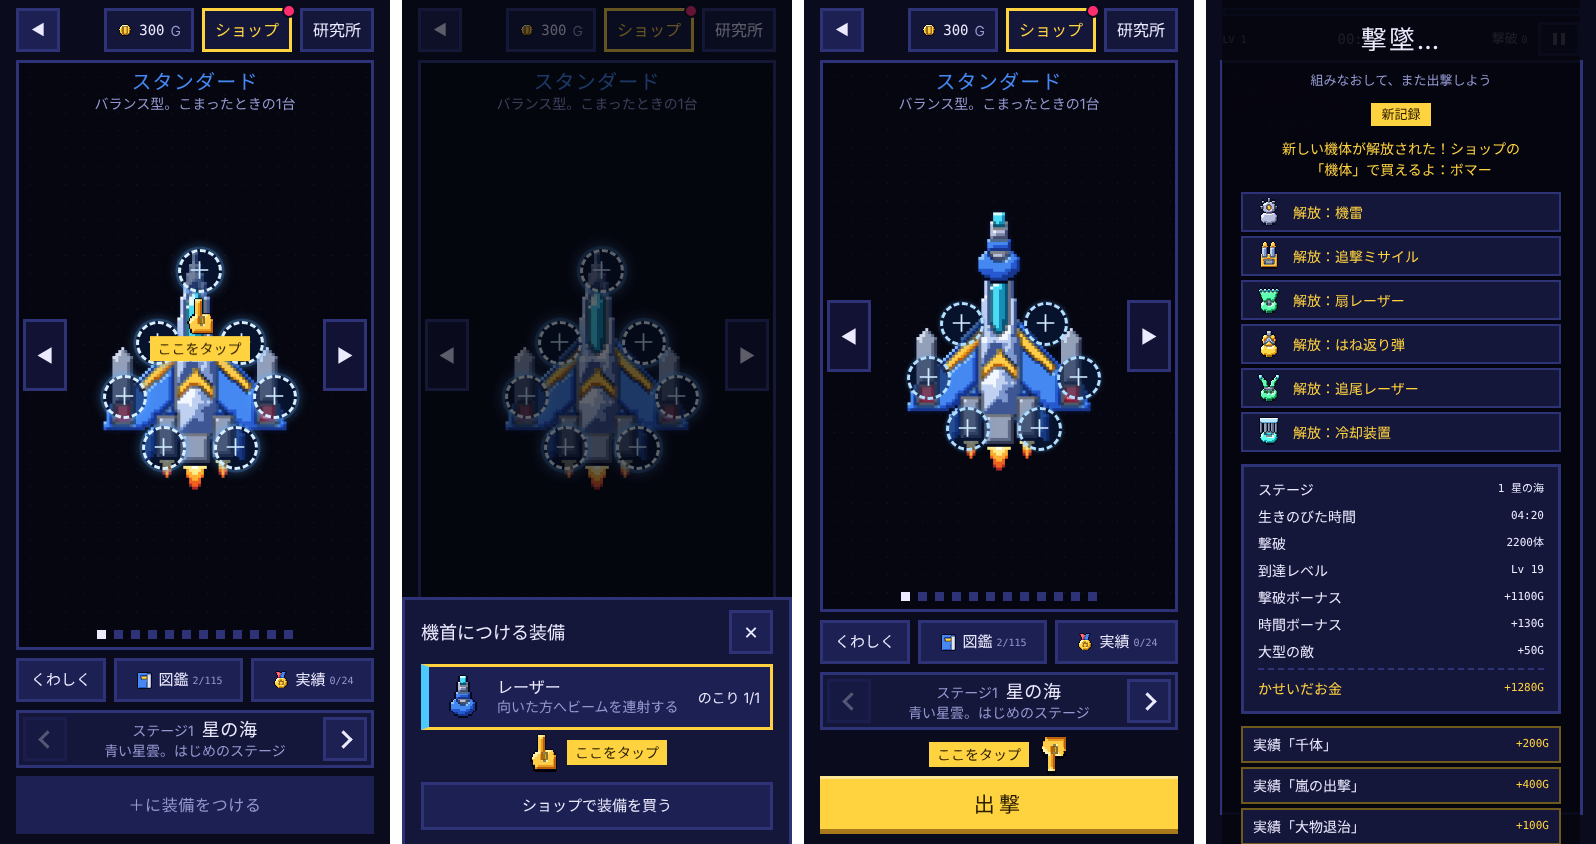
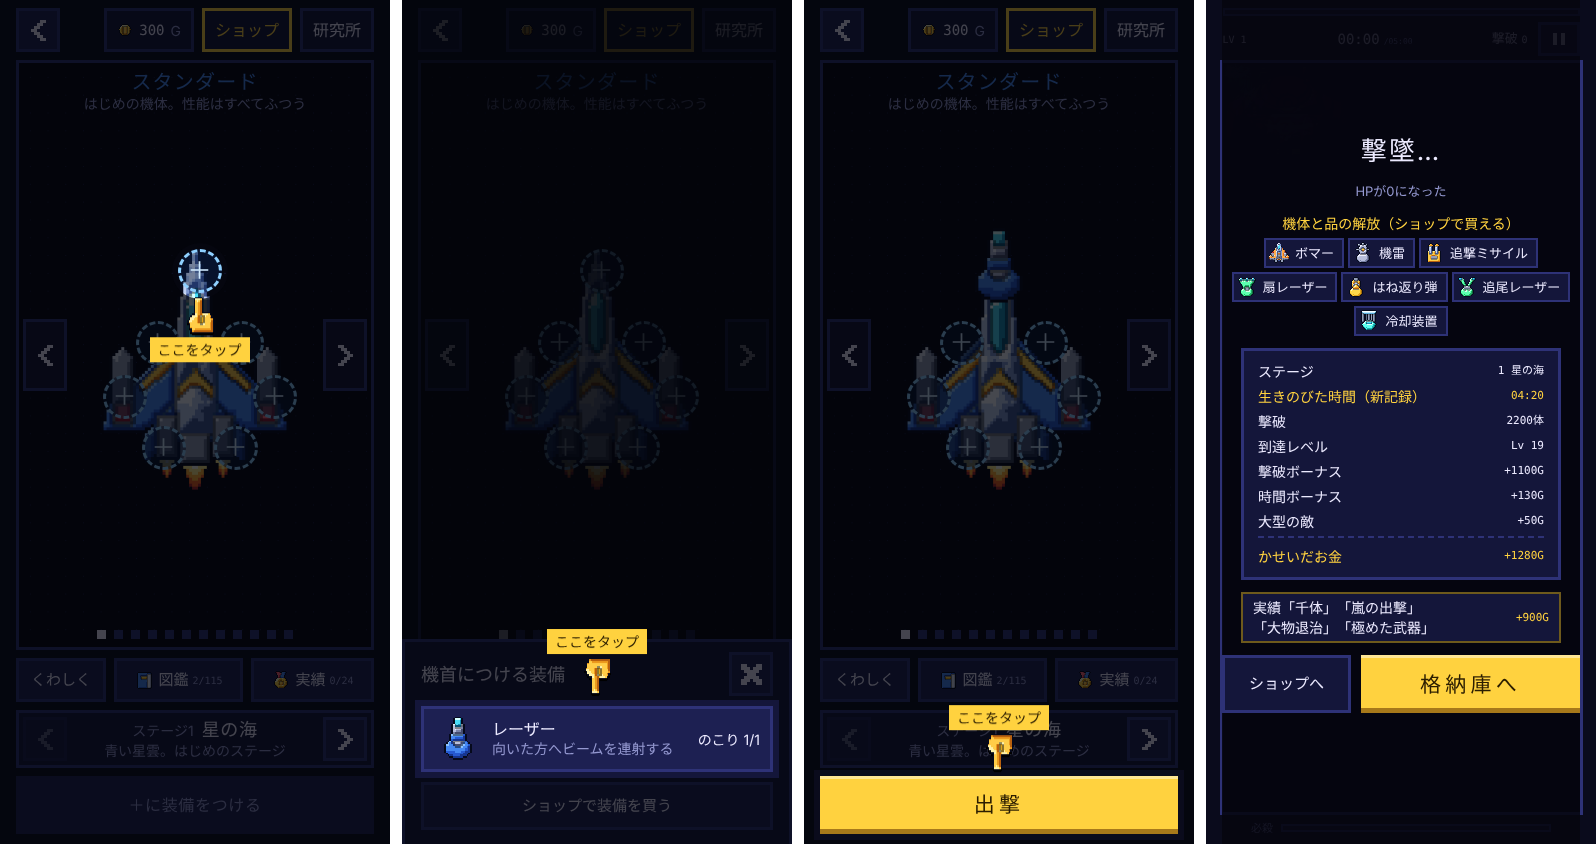
テストの記録とスクショ（はじめの案内・ショップ）を更新・check14 は案内③の確認のあとでタップのひと回り
Claude-Session: https://claude.ai/code/session_015wi4GgQngR26UjVJownuP1

diff --git a/docs/TESTS.md b/docs/TESTS.md
@@ -81,3 +81,8 @@ GPU のない chromium（ヘッドレス）・幅390 で3回はかった値。
 | ships11.py（機体12機・必殺技） | エラー0・NG0 |
 | upgrades12.py（強化・研究所・図鑑・実績） | エラー0・NG0。重さ 95% 13.1ms。必殺技の最初の1回 8.7〜14.8ms |
 | stages13.py（ステージ5つ） | エラー0・NG0。大型の敵をたおす時間 6.1〜8.0秒（大蛇 6.9秒・深淵の核 16.9秒）。重さ 95% 10.8〜14.9ms |
+
+## #17 はじめの案内を見やすく（11/16）
+- 押す所（① 機首の＋・② 一覧のレーザー・③ 出撃）だけ明るく、ほかは暗くして押せない形に。指は押す所に向かって上下に動く。③の指は出撃の上（ステージの所に重ねる）。#15 の「出撃の上の1行」はなくしたので、③の間も機体の絵の大きさは変わらない
+- unlock15 43項目 NG 0（案内の項目を新しい形に）・copy16 29項目 NG 0（指の動きは許すリスト）・check14 NG 0（タップのひと回りは③の確認のあと案内を終えた形で）・ships11 NG 0・shots14 NG 0。エラー0・警告0
+- perf14：起動 292ms・いちばん重い場面 95% 12.7ms
